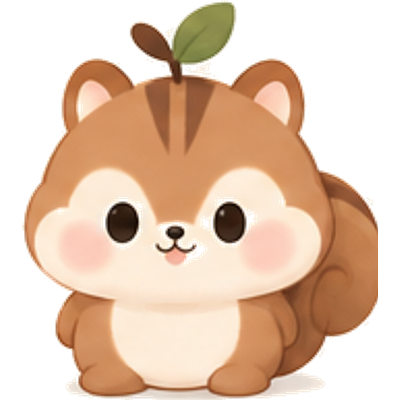
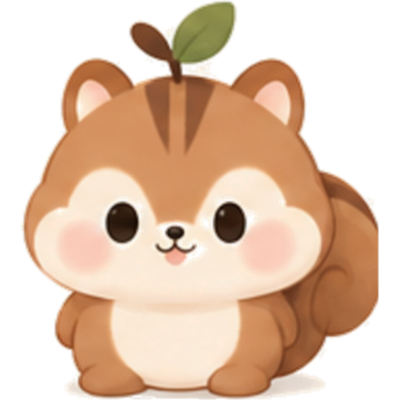
다크모드에서 새미 캐릭터 테두리가 잘려 보이는 문제 수정
원인: normalize-mascots.js가 "크림/흰색 계열이면 배경"이라는 단순 픽셀 색
threshold로 전체 캔버스를 훑어 투명 처리했다. 이 방식은 두 가지 문제가 있었다:
  1) 캐릭터 실루엣 경계의 반투명 픽셀에 원래 배경색(흰/크림)이 그대로 남아있어,
     밝은 배경에서는 안 보이지만 다크모드의 어두운 배경(#1A1714) 위에서는
     캐릭터 테두리를 따라 밝은 얼룩/깨진 것처럼 보이는 halo로 도드라졌다.
  2) mascot-share.png는 애초에 이 스크립트가 처리하는 파일 목록에 없어
     알파 채널 자체가 없었다(불투명 크림색 배경 그대로) — 다크 공유카드
     테마에서 완전한 크림색 사각형이 그대로 노출되는 문제였다.

수정: 픽셀 색만으로 배경을 판정하지 않고, 이미지 가장자리에서부터
배경색 픽셀을 따라가는 flood fill로 "테두리와 연결된" 영역만 배경으로
인정하도록 바꿨다(캐릭터 내부의 밝은 하이라이트/배 부분은 가장자리와
연결돼 있지 않아 안전하게 남는다). 지워지는 배경 픽셀의 색은 삭제 전에
가장 가까운 캐릭터 픽셀 색으로 미리 확장해뒀다가 블러로 경계를 부드럽게
만들어, 리사이즈 과정에서 흰/크림색이 섞여 들어오지 않게 했다.
mascot-share도 처리 대상에 포함시켰다.

7개 새미 에셋 전부 재생성. 다크 배경 합성 픽셀 비교로 경계의 흰색 오염이
사라지고 캐릭터 톤 색상으로 자연스럽게 번지는 것을 확인했다(변경 영역이
실루엣 경계에만 좁게 분포하고 내부는 그대로임을 diff heatmap으로도 확인).

diff --git a/scripts/normalize-mascots.js b/scripts/normalize-mascots.js
@@ -4,8 +4,89 @@
 const sharp = require('sharp');
 const path = require('path');
 
-const FILES = ['mascot-profile', 'mascot-today', 'mascot-feed', 'mascot-calendar', 'mascot-settings', 'mascot'];
+const FILES = ['mascot-profile', 'mascot-today', 'mascot-feed', 'mascot-calendar', 'mascot-settings', 'mascot', 'mascot-share'];
 const assetsDir = path.join(__dirname, '..', 'src', 'assets');
+
+// 새미 캐릭터는 배경과 비슷한 크림/흰 톤(밝은 배, 하이라이트)을 많이 쓰기 때문에,
+// 픽셀 색만 보고 "크림 계열이면 지운다"는 식으로 전체 캔버스를 훑으면 캐릭터 내부의
+// 밝은 부분까지 뚫려 버린다. 그래서 이미지 가장자리에서부터 배경색 픽셀을 따라
+// flood fill로 연결된 영역만 배경으로 인정한다.
+function isBackgroundColor(r, g, b) {
+  return r > 232 && g > 220 && b > 200 && Math.abs(r - g) < 22 && r - b < 48;
+}
+
+function floodFillBackground(buf, width, height, channels) {
+  const isBg = new Uint8Array(width * height);
+  const stack = [];
+
+  function seed(x, y) {
+    if (x < 0 || y < 0 || x >= width || y >= height) return;
+    const idx = y * width + x;
+    if (isBg[idx]) return;
+    const o = idx * channels;
+    if (!isBackgroundColor(buf[o], buf[o + 1], buf[o + 2])) return;
+    isBg[idx] = 1;
+    stack.push(idx);
+  }
+
+  for (let x = 0; x < width; x++) {
+    seed(x, 0);
+    seed(x, height - 1);
+  }
+  for (let y = 0; y < height; y++) {
+    seed(0, y);
+    seed(width - 1, y);
+  }
+
+  while (stack.length) {
+    const idx = stack.pop();
+    const x = idx % width;
+    const y = (idx / width) | 0;
+    seed(x + 1, y);
+    seed(x - 1, y);
+    seed(x, y + 1);
+    seed(x, y - 1);
+  }
+
+  return isBg;
+}
+
+// 배경으로 지워질 픽셀의 RGB를 캐릭터 쪽 가장 가까운 픽셀 색으로 미리 덮어씌운다.
+// (알파를 곱해서/나눠서 보정하는 premultiply 방식은 8비트 정수 버퍼에서 낮은 알파
+// 구간의 반올림 오차가 커져 오히려 흰 테두리가 남는 문제가 있었다. 대신 색 자체를
+// "캐릭터 색으로 확장"해두면, 이후 블러/리사이즈가 색을 섞어도 항상 캐릭터와
+// 비슷한 색끼리만 섞이므로 흰/크림색이 번져 들어올 여지가 없다.)
+function extendEdgeColor(buf, width, height, channels, isBg, iterations) {
+  let needsColor = isBg;
+  for (let iter = 0; iter < iterations; iter++) {
+    const next = Uint8Array.from(needsColor);
+    for (let y = 0; y < height; y++) {
+      for (let x = 0; x < width; x++) {
+        const idx = y * width + x;
+        if (!needsColor[idx]) continue;
+        const neighbors = [
+          [x - 1, y],
+          [x + 1, y],
+          [x, y - 1],
+          [x, y + 1],
+        ];
+        for (const [nx, ny] of neighbors) {
+          if (nx < 0 || ny < 0 || nx >= width || ny >= height) continue;
+          const nidx = ny * width + nx;
+          if (needsColor[nidx]) continue;
+          const o = idx * channels;
+          const no = nidx * channels;
+          buf[o] = buf[no];
+          buf[o + 1] = buf[no + 1];
+          buf[o + 2] = buf[no + 2];
+          next[idx] = 0;
+          break;
+        }
+      }
+    }
+    needsColor = next;
+  }
+}
 
 async function process(name) {
   const src = path.join(assetsDir, name + '.png');
@@ -13,29 +94,26 @@ async function process(name) {
   const { width, height, channels } = info;
   const out = Buffer.from(data);
 
-  for (let i = 0; i < width * height; i++) {
-    const o = i * channels;
-    const r = out[o];
-    const g = out[o + 1];
-    const b = out[o + 2];
-    // 배경(크림/흰색 계열)만 투명 처리한다. 캐릭터의 밝은 배 부분은 이보다 노란기가 강하다.
-    if (r > 243 && g > 238 && b > 225 && Math.abs(r - g) < 14 && r - b < 32) {
-      out[o + 3] = 0;
-    }
+  const isBg = floodFillBackground(out, width, height, channels);
+  extendEdgeColor(out, width, height, channels, isBg, 6);
+  for (let idx = 0; idx < width * height; idx++) {
+    if (isBg[idx]) out[idx * channels + 3] = 0;
   }
 
-  const cleaned = await sharp(out, { raw: { width, height, channels } }).png().toBuffer();
-  const trimmed = await sharp(cleaned).trim({ threshold: 1 }).toBuffer();
+  // flood fill은 이진(계단식) 알파 경계를 만든다. 색은 이미 캐릭터 색으로 확장해뒀으므로
+  // 이제 블러를 줘도 흰색이 섞일 걱정 없이 알파만 부드럽게 풀어진다.
+  const blurred = await sharp(out, { raw: { width, height, channels } }).blur(0.8).png().toBuffer();
+  const trimmed = await sharp(blurred).trim({ threshold: 1 }).toBuffer();
   const tm = await sharp(trimmed).metadata();
 
   // 트림된 캐릭터를 400x400 캔버스에 꽉 차게(비율 유지) 리사이즈한다.
   // sharp는 composite보다 resize를 먼저 적용하므로 트림 결과를 직접 리사이즈해야 한다.
   await sharp(trimmed)
-    .resize(400, 400, { fit: 'contain', background: { r: 0, g: 0, b: 0, alpha: 0 } })
+    .resize(400, 400, { fit: 'contain', background: { r: 0, g: 0, b: 0, alpha: 0 }, kernel: 'mitchell' })
     .png()
     .toFile(path.join(assetsDir, name + '.png'));
 
-  console.log(name, '->', tm.width + 'x' + tm.height, '-> 400x400');
+  console.log(name, '->', tm.width + 'x' + tm.height, '-> 400x400 (flood-fill + edge color 확장)');
 }
 
 async function main() {
